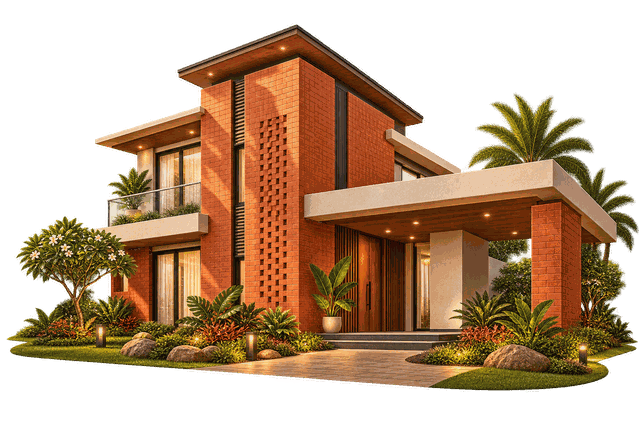
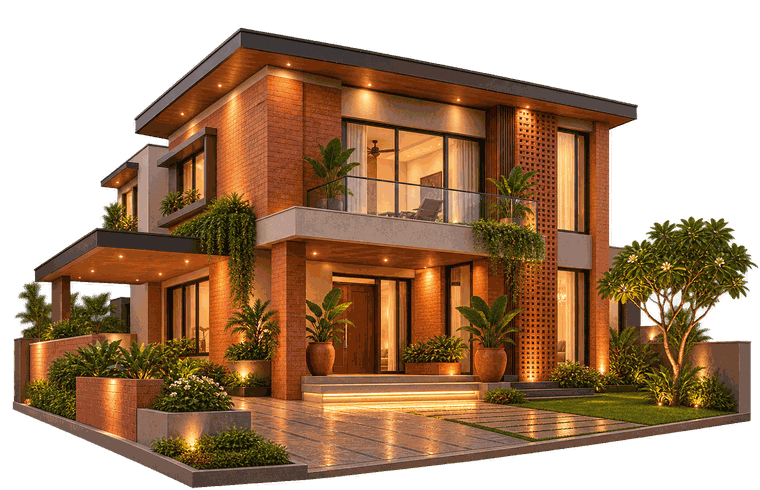
feat(quotation): lead with why mud interlock, then why Maiyuri
The recommendation page is gone. In its place the proposal now argues the
material before it argues the supplier, which is the order a homeowner
actually asks the questions in:

  01  Why mud interlock   — red brick against mud interlock, and what the
                            difference means once you are living in the house
  02  Why Maiyuri         — what makes a good interlock brick, buying bricks
                            alone against buying with support, and why local
                            matters
  03  Proof first         — the lab reports, unchanged
  04  Commercial proposal — unchanged

Cover: the new house render, and the mascot given real presence — 44mm, and
only on the cover, where it is the reader's first meeting with the guide. On
the inner pages it stays small and supports the text.

Two numbers from the source artwork are deliberately not printed: "up to 50%
less mortar" and "2-5°C cooler interiors". Nothing we hold supports either,
and the brochure itself caveats indoor comfort against roof treatment,
ventilation, shading, orientation and workmanship. The claims are made
qualitatively instead — less mortar, no plaster, naturally cooler interiors.
Both figures are one line each to add once a measurement backs them.

Nothing lost from the old page: the wall recommendation, quantity and dispatch
timeline all still appear in the commercial summary strip.

diff --git a/apps/web/src/lib/quotation-html/template.html b/apps/web/src/lib/quotation-html/template.html
@@ -164,6 +164,26 @@
     line-height: 1.45;
   }
 
+  /* Comparison lists — a leaf marker rather than a bullet, so the two
+     columns read as a considered pair and not a spec sheet. */
+  .ticks { list-style: none; margin: 0; padding: 0; }
+  .ticks li {
+    font-size: 8.4pt;
+    color: var(--muted);
+    line-height: 1.45;
+    padding-left: 4.5mm;
+    margin-bottom: 1.8mm;
+    position: relative;
+  }
+  .ticks li::before {
+    content: "";
+    position: absolute;
+    left: 0; top: 1.35mm;
+    width: 2mm; height: 2mm;
+    border-radius: 0 100% 0 100%;
+    background: var(--gold);
+  }
+
   /* — Logo lockup — */
   .lockup { display: flex; align-items: center; gap: 3.5mm; }
   .lockup img { width: 13mm; height: auto; }
@@ -210,6 +230,12 @@
     width: 26mm; height: 30mm; flex: 0 0 26mm;
     background: transparent;
   }
+
+  /* The cover's guide is the reader's first meeting with the mascot, so it
+     is given real presence there — and only there. On the inner pages it
+     stays small, where it should support the text rather than compete. */
+  .cover .guide .mascot { width: 44mm; height: 50mm; flex: 0 0 44mm; }
+  .cover .guide .say { font-size: 9pt; }
   .guide .mascot img { width: 100%; height: 100%; object-fit: contain; object-position: bottom; }
   /* No asset for this pose: the slot collapses and the guidance line stands
      on its own, rather than printing an empty box at a customer. */
@@ -341,13 +367,13 @@
     <div class="lede" style="margin:3mm 0 0; font-size:9.5pt;">A guided proposal for better homes</div>
   </div>
 
-  <div style="margin-top:4mm; display:flex; justify-content:center;">
-    <img src="{{ASSET:house}}" alt="" style="width:96mm; height:auto;" />
+  <div style="margin-top:3mm; display:flex; justify-content:center;">
+    <img src="{{ASSET:house}}" alt="" style="width:86mm; height:auto;" />
   </div>
 
   <!-- The line the website closes on. Tamil needs its own face: the display
        serif carries no Tamil glyphs, so without this it would render as boxes. -->
-  <div style="text-align:center; margin-top:4mm;">
+  <div style="text-align:center; margin-top:3mm;">
     <div class="tamil">நம் மண். நம் வீடு. நம் அறிவு.</div>
     <div class="lede" style="margin:1.5mm 0 0; font-size:9pt;">Our soil. Our home. Our wisdom.</div>
   </div>
@@ -370,7 +396,86 @@
 
 </section>
 
-<!-- ======================= PAGE 01 — RECOMMENDATION ======================= -->
+<!-- ==================== PAGE 01 — WHY MUD INTERLOCK ==================== -->
+<section class="page">
+  <div class="runhead">
+    <img class="head-logo" src="{{ASSET:lockup-wide}}" alt="Maiyuri Bricks — Smart Interlock Bricks" />
+    <div class="meta">
+      <div><div class="k">Quotation No.</div><div class="v" data-k="quotationNumber"></div></div>
+      <div><div class="k">Date</div><div class="v" data-k="quotationDate"></div></div>
+      <div><div class="k">Project</div><div class="v" data-k="projectName"></div></div>
+      <div><div class="k">Location</div><div class="v" data-k="projectLocation"></div></div>
+    </div>
+  </div>
+
+  <div style="margin-top:7mm; display:flex; justify-content:space-between; align-items:flex-start; gap:8mm;">
+    <div style="max-width:118mm;">
+      <h1>Why <em>mud interlock</em></h1>
+      <div class="lede">Not an alternative. An upgrade.</div>
+      <p class="small" style="margin-top:3mm; max-width:108mm;">
+        Red soil, pressed and cured — never kiln fired. The same material Tamil
+        homes were built from, made to a modern tolerance so the blocks lock
+        together and the wall runs true.
+      </p>
+    </div>
+    <img src="{{ASSET:brick}}" alt="" style="width:32mm; height:auto;" />
+  </div>
+
+  <div class="grid g2" style="margin-top:6mm; gap:7mm;">
+    <div class="card">
+      <div class="eyebrow">Conventional red brick</div>
+      <div style="font-family:var(--serif); font-size:11pt; color:var(--ink); margin-top:2mm;">
+        Traps heat like a pressure cooker.
+      </div>
+      <ul class="ticks" style="margin-top:3mm;">
+        <li>Higher cement and plaster usage</li>
+        <li>Traps humidity indoors</li>
+        <li>Hotter interiors through the afternoon</li>
+        <li>Kiln fired</li>
+      </ul>
+    </div>
+    <div class="card" style="border-color:var(--gold); background:var(--paper-2);">
+      <div class="eyebrow" style="color:var(--terracotta);">Maiyuri mud interlock</div>
+      <div style="font-family:var(--serif); font-size:11pt; color:var(--peacock); margin-top:2mm;">
+        Breathes naturally like a clay pot.
+      </div>
+      <ul class="ticks" style="margin-top:3mm;">
+        <li>Less mortar, and no plaster needed</li>
+        <li>Breathable walls</li>
+        <li>Naturally cooler interiors</li>
+        <li>No firing, and recyclable</li>
+      </ul>
+    </div>
+  </div>
+
+  <div style="margin-top:6mm;">
+    <div class="section-title">What that means at home</div>
+    <div class="grid g4" style="margin-top:4mm;">
+      <div><div class="eyebrow">Thermal comfort</div><p class="small" style="margin-top:1.5mm;">Red soil holds heat slowly and gives it back slowly.</p></div>
+      <div><div class="eyebrow">Healthier living</div><p class="small" style="margin-top:1.5mm;">Walls that breathe rather than trap damp.</p></div>
+      <div><div class="eyebrow">Strong and load-bearing</div><p class="small" style="margin-top:1.5mm;">Tested to IS 15658; load-bearing to G+2, subject to your engineer.</p></div>
+      <div><div class="eyebrow">No kiln, no toxins</div><p class="small" style="margin-top:1.5mm;">No fly ash, no kiln firing, no chemical hardeners.</p></div>
+    </div>
+    <p class="small" style="margin-top:3mm;">
+      Comfort at home also depends on roof treatment, ventilation, shading,
+      orientation and workmanship — the wall is one part of it.
+    </p>
+  </div>
+
+  <div style="margin-top:auto; text-align:center;">
+    <img class="divider" src="{{ASSET:divider-leaf}}" alt="" style="margin:0 auto 3mm;" />
+    <div style="font-family:var(--serif); font-size:11pt; color:var(--peacock);">
+      Traditional wisdom &nbsp;&bull;&nbsp; Modern engineering &nbsp;&bull;&nbsp; Designed for Chennai
+    </div>
+  </div>
+
+  <div class="foot">
+    <div>MAIYURI BRICKS &nbsp;&bull;&nbsp; SMART INTERLOCK BRICKS</div>
+    <div class="pageno">01</div>
+  </div>
+</section>
+
+<!-- ======================= PAGE 02 — WHY MAIYURI ======================= -->
 <section class="page">
   <div class="runhead">
     <img class="head-logo" src="{{ASSET:lockup-wide}}" alt="Maiyuri Bricks — Smart Interlock Bricks" />
@@ -384,84 +489,83 @@
 
   <div style="margin-top:7mm; display:flex; justify-content:space-between; align-items:flex-start; gap:8mm;">
     <div style="max-width:112mm;">
-      <h1>Your Recommended<br /><em>Maiyuri Solution</em></h1>
-      <div class="lede">A clear starting point for your home.</div>
+      <h1>Why <em>Maiyuri</em></h1>
+      <div class="lede">Don't compare only the brick price.</div>
+      <p class="small" style="margin-top:3mm; max-width:104mm;">
+        In interlock construction the material matters — but expert local
+        support matters even more.
+      </p>
     </div>
     <div class="guide">
-      
-      <div class="say" style="max-width:44mm;">Based on your project, this is our recommended wall system.</div>
+      <div class="say" style="max-width:44mm;">A home is not built by brick price alone.</div>
+      <div class="mascot" data-mascot="brick"></div>
     </div>
   </div>
 
-  <div class="grid g4" style="margin-top:12mm;">
-    <div class="card">
-      <div class="num">01</div>
-      <h3 style="margin-top:2mm;">External Wall</h3>
-      <p style="margin-top:2.5mm; font-weight:600;" data-k="externalWallProduct"></p>
-      <p class="small" data-k="externalWallThickness"></p>
-      <p class="small" style="margin-top:2.5mm;" data-k="externalWallReason"></p>
+  <div style="margin-top:5mm;">
+    <div class="section-title">What makes a good interlock brick</div>
+    <div class="grid g3" style="margin-top:3mm; gap:3mm 6mm;">
+      <div class="eyebrow">Soil quality</div>
+      <div class="eyebrow">Compression</div>
+      <div class="eyebrow">Curing</div>
+      <div class="eyebrow">Dimensions</div>
+      <div class="eyebrow">Workmanship</div>
+      <div class="eyebrow">Site support</div>
     </div>
+    <p class="small" style="margin-top:3mm;">
+      The real question is not just the soil. It is how the brick is made — and
+      who supports you on site.
+    </p>
+  </div>
+
+  <div class="grid g2" style="margin-top:6mm; gap:7mm;">
     <div class="card">
-      <div class="num">02</div>
-      <h3 style="margin-top:2mm;">Internal Wall</h3>
-      <p style="margin-top:2.5mm; font-weight:600;" data-k="internalWallProduct"></p>
-      <p class="small" data-k="internalWallThickness"></p>
-      <p class="small" style="margin-top:2.5mm;" data-k="internalWallReason"></p>
+      <div class="eyebrow">Buying bricks alone</div>
+      <ul class="ticks" style="margin-top:3mm;">
+        <li>Slightly cheaper upfront</li>
+        <li>Limited guidance on site</li>
+        <li>Delay or shortage risk</li>
+        <li>More rework and confusion</li>
+        <li>Problems take longer to solve</li>
+      </ul>
     </div>
-    <div class="card">
-      <div class="num">03</div>
-      <h3 style="margin-top:2mm;">Delivery</h3>
-      <img src="{{ASSET:truck}}" alt="" style="width:100%; height:auto; margin-top:2mm;" />
-      <p style="margin-top:2mm; font-weight:600;" data-k="deliveryTimeline"></p>
-      <p class="small" style="margin-top:1.5mm;">From order confirmation, subject to quantity and site readiness.</p>
-    </div>
-    <div class="card">
-      <div class="num">04</div>
-      <h3 style="margin-top:2mm;">Project Location</h3>
-      <p style="margin-top:2.5mm; font-weight:600;" data-k="projectLocation"></p>
-      <p class="small" style="margin-top:2.5mm;">Estimated quantity <span data-k="estimatedQuantity"></span>.</p>
+    <div class="card" style="border-color:var(--gold); background:var(--paper-2);">
+      <div class="eyebrow" style="color:var(--terracotta);">With Maiyuri</div>
+      <ul class="ticks" style="margin-top:3mm;">
+        <li>Available locally in Chennai</li>
+        <li>Quick support when you need it</li>
+        <li>Extra quantity when the site runs short</li>
+        <li>Guidance for your masons</li>
+        <li>Faster resolution when something goes wrong</li>
+      </ul>
     </div>
   </div>
 
-  <div style="margin-top:12mm;">
-    <div class="section-title">Why this solution</div>
-    <div class="grid g4">
-      <div class="card">
-        <h3>Cooler &amp; more comfortable homes</h3>
-        <p class="small" style="margin-top:2.5mm;">Red soil holds and releases heat slowly. Actual comfort depends on roof, ventilation, shading, orientation and workmanship.</p>
-      </div>
-      <div class="card">
-        <h3>Strong &amp; precision-engineered</h3>
-        <p class="small" style="margin-top:2.5mm;">Hydraulic double compression, tested to 9.52 N/mm² (8") and 11.13 N/mm² (6") per IS 15658. Load-bearing to G+2, subject to your engineer.</p>
-      </div>
-      <div class="card">
-        <h3>Lower water absorption</h3>
-        <p class="small" style="margin-top:2.5mm;">Tested at 3.00% average against a 20% permitted limit. The report is on the evidence page.</p>
-      </div>
-      <div class="card">
-        <h3>Factory-direct guidance</h3>
-        <p class="small" style="margin-top:2.5mm;">You deal with the people who make the block — from planning through to the last course laid.</p>
-      </div>
+  <div style="margin-top:6mm;">
+    <div class="section-title">Why that matters</div>
+    <div class="grid g4" style="margin-top:4mm;">
+      <div><div class="eyebrow">Local in Chennai</div><p class="small" style="margin-top:1.5mm;">Close by, so response times are short.</p></div>
+      <div><div class="eyebrow">More than brick supply</div><p class="small" style="margin-top:1.5mm;">Planning, execution and problem-solving.</p></div>
+      <div><div class="eyebrow">Practical interlock expertise</div><p class="small" style="margin-top:1.5mm;">On-ground experience, not just a product.</p></div>
+      <div><div class="eyebrow">Support beyond delivery</div><p class="small" style="margin-top:1.5mm;">We stay with you after the bricks arrive.</p></div>
     </div>
   </div>
 
-  <div style="margin-top:11mm;">
-    <div class="section-title">What you can expect from Maiyuri</div>
-    <div class="grid g4">
-      <div><div class="eyebrow">Site guidance</div><p class="small" style="margin-top:1.5mm;">Someone senior visits your plot, measures, and recommends the right SKU mix. No charge.</p></div>
-      <div><div class="eyebrow">On-site mason training</div><p class="small" style="margin-top:1.5mm;">Interlocking is a different skill. We send a trained mason to teach yours on day one.</p></div>
-      <div><div class="eyebrow">Technical support to handover</div><p class="small" style="margin-top:1.5mm;">A WhatsApp line to our engineer. Photo a problem, get a same-day answer.</p></div>
-      <div><div class="eyebrow">Brick-laying, if you want it</div><p class="small" style="margin-top:1.5mm;">We can arrange laying support at additional cost — quoted separately, never assumed.</p></div>
+  <div style="margin-top:auto; text-align:center;">
+    <img class="divider" src="{{ASSET:divider-leaf}}" alt="" style="margin:0 auto 3mm;" />
+    <div style="font-family:var(--serif); font-size:11.5pt; color:var(--peacock); line-height:1.3;">
+      Maiyuri Bricks is not just a supplier.<br />
+      <span style="color:var(--terracotta);">It is your local interlock construction partner.</span>
     </div>
   </div>
 
   <div class="foot">
     <div>MAIYURI BRICKS &nbsp;&bull;&nbsp; SMART INTERLOCK BRICKS</div>
-    <div class="pageno">01</div>
+    <div class="pageno">02</div>
   </div>
 </section>
 
-<!-- ======================= PAGE 02 — PROOF ======================= -->
+<!-- ======================= PAGE 03 — PROOF ======================= -->
 <section class="page">
   <img class="wm wm-temple-lg" src="{{ASSET:temple}}" alt="" />
 
@@ -537,11 +641,11 @@
 
   <div class="foot">
     <div>A better wall is more than a cheaper brick.</div>
-    <div class="pageno">02</div>
+    <div class="pageno">03</div>
   </div>
 </section>
 
-<!-- ==================== PAGE 03 — COMMERCIAL ==================== -->
+<!-- ==================== PAGE 04 — COMMERCIAL ==================== -->
 <section class="page">
   <img class="wm wm-feather" src="{{ASSET:feather}}" alt="" />
 
@@ -639,7 +743,7 @@
 
   <div class="foot">
     <div><span data-k="salesPersonName"></span> &nbsp;&bull;&nbsp; <span data-k="salesPersonPhone"></span> &nbsp;&bull;&nbsp; <span data-k="website"></span></div>
-    <div class="pageno">03</div>
+    <div class="pageno">04</div>
   </div>
 </section>
 

diff --git a/apps/web/src/lib/quotation-html/render.ts b/apps/web/src/lib/quotation-html/render.ts
@@ -65,7 +65,7 @@ export interface QuotationConfig {
 const ASSETS = [
   "corner", "temple", "skyline", "feather", "divider-leaf", "house",
   "lockup", "lockup-wide", "truck", "mascot-welcome", "mascot-brick",
-  "advance-banner",
+  "advance-banner", "brick",
 ] as const;
 
 const FACES: [string, number, string, string][] = [

diff --git a/apps/web/src/lib/quotation-html/build.py b/apps/web/src/lib/quotation-html/build.py
@@ -49,7 +49,7 @@ def main() -> None:
     assets = {name: os.path.join(ART, f"{name}.png") for name in
               ("corner", "temple", "skyline", "feather", "divider-leaf",
                "divider-knot", "house", "page-frame", "lockup", "lockup-wide",
-               "truck", "mascot-welcome", "mascot-brick", "advance-banner")}
+               "truck", "mascot-welcome", "mascot-brick", "advance-banner", "brick")}
 
     used = []
     for name, path in assets.items():
